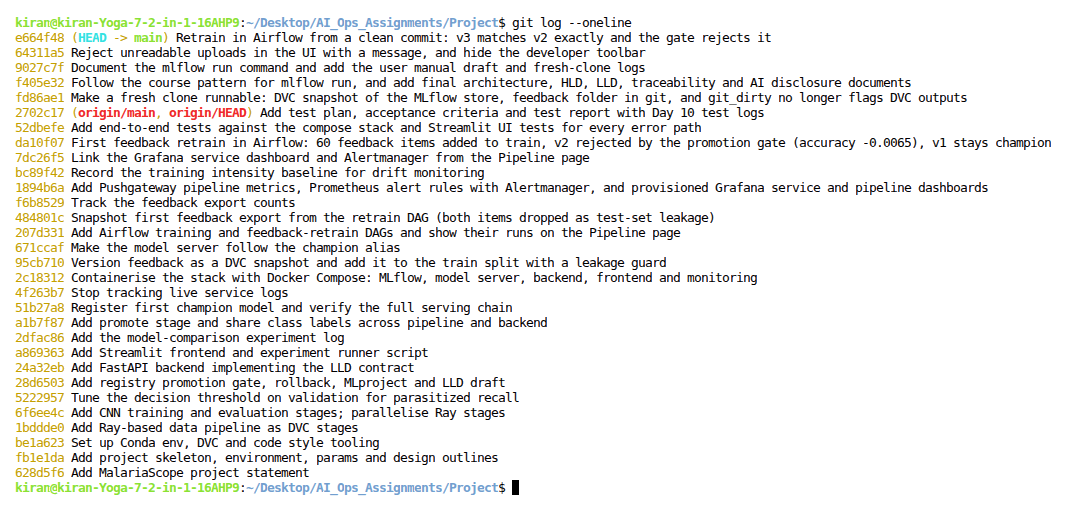
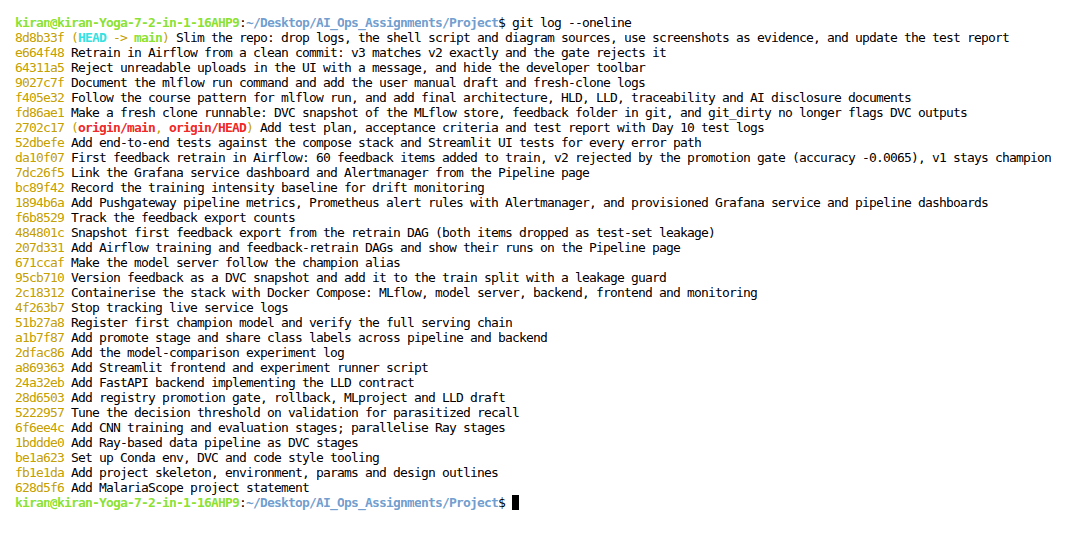
more screenshots, latency

Changed region(s): [[0.0, 0.0305, 0.9787, 0.9466]]

diff --git a/docs/test_report.md b/docs/test_report.md
@@ -42,7 +42,7 @@ All cases in test plan sections 6.1–6.5 passed. Notable measurements:
 | E2E-02 | Backend serves version 1, threshold 0.2417, same git commit as the registry tag |
 | E2E-04 | All 4 sample cells labelled correctly through the containers |
 | E2E-05 | 400 / 400 / 413 / 422 with the LLD error codes |
-| E2E-10 | 50 `/predict` calls: **p50 104.6 ms, p95 298.0 ms** |
+| E2E-10 | 50 `/predict` calls on an idle machine: **p50 65.6 ms, p95 196.0 ms** (`07_testing/06_latency_p95.png`) |
 
 System tests (section 6.6):
 
@@ -77,7 +77,7 @@ The full run-through on 7 Nov found problems the automated tests had missed. Eac
 |---|---|---|---|
 | AC-1 | Test accuracy ≥ 95% | 96.26% | ✅ Yes |
 | AC-2 | Parasitized recall ≥ 97% | 96.73% (45 of 1,378 infected cells missed) | ❌ **No**, short by 0.27 points (4 cells) |
-| AC-3 | p95 `/predict` < 500 ms | 298.0 ms | ✅ Yes |
+| AC-3 | p95 `/predict` < 500 ms | 196.0 ms | ✅ Yes |
 | AC-4 | All automated tests pass | 89/89 pytest, 6/6 promtool | ✅ Yes |
 | AC-5 | UI handles every error case | UI-02, UI-06, UI-08, UI-09, UT-18, E2E-05, ST-09 pass | ✅ Yes, after the fix in section 4 |
 | AC-6 | Lint clean | black and flake8 clean | ✅ Yes |

diff --git a/docs/HLD.md b/docs/HLD.md
@@ -56,7 +56,7 @@ Pipeline stages are **functional**: each is a script that reads declared inputs 
 6. The UI shows the label, the confidence and a low-confidence warning below 70%.
 7. The user can confirm or correct the result. The image and the label go to the feedback store.
 
-Measured over 50 calls through the containers: p50 59.2 ms, p95 247.0 ms.
+Measured over 50 calls through the containers: p50 65.6 ms, p95 196.0 ms.
 
 ### 4.2 Training pipeline
 
